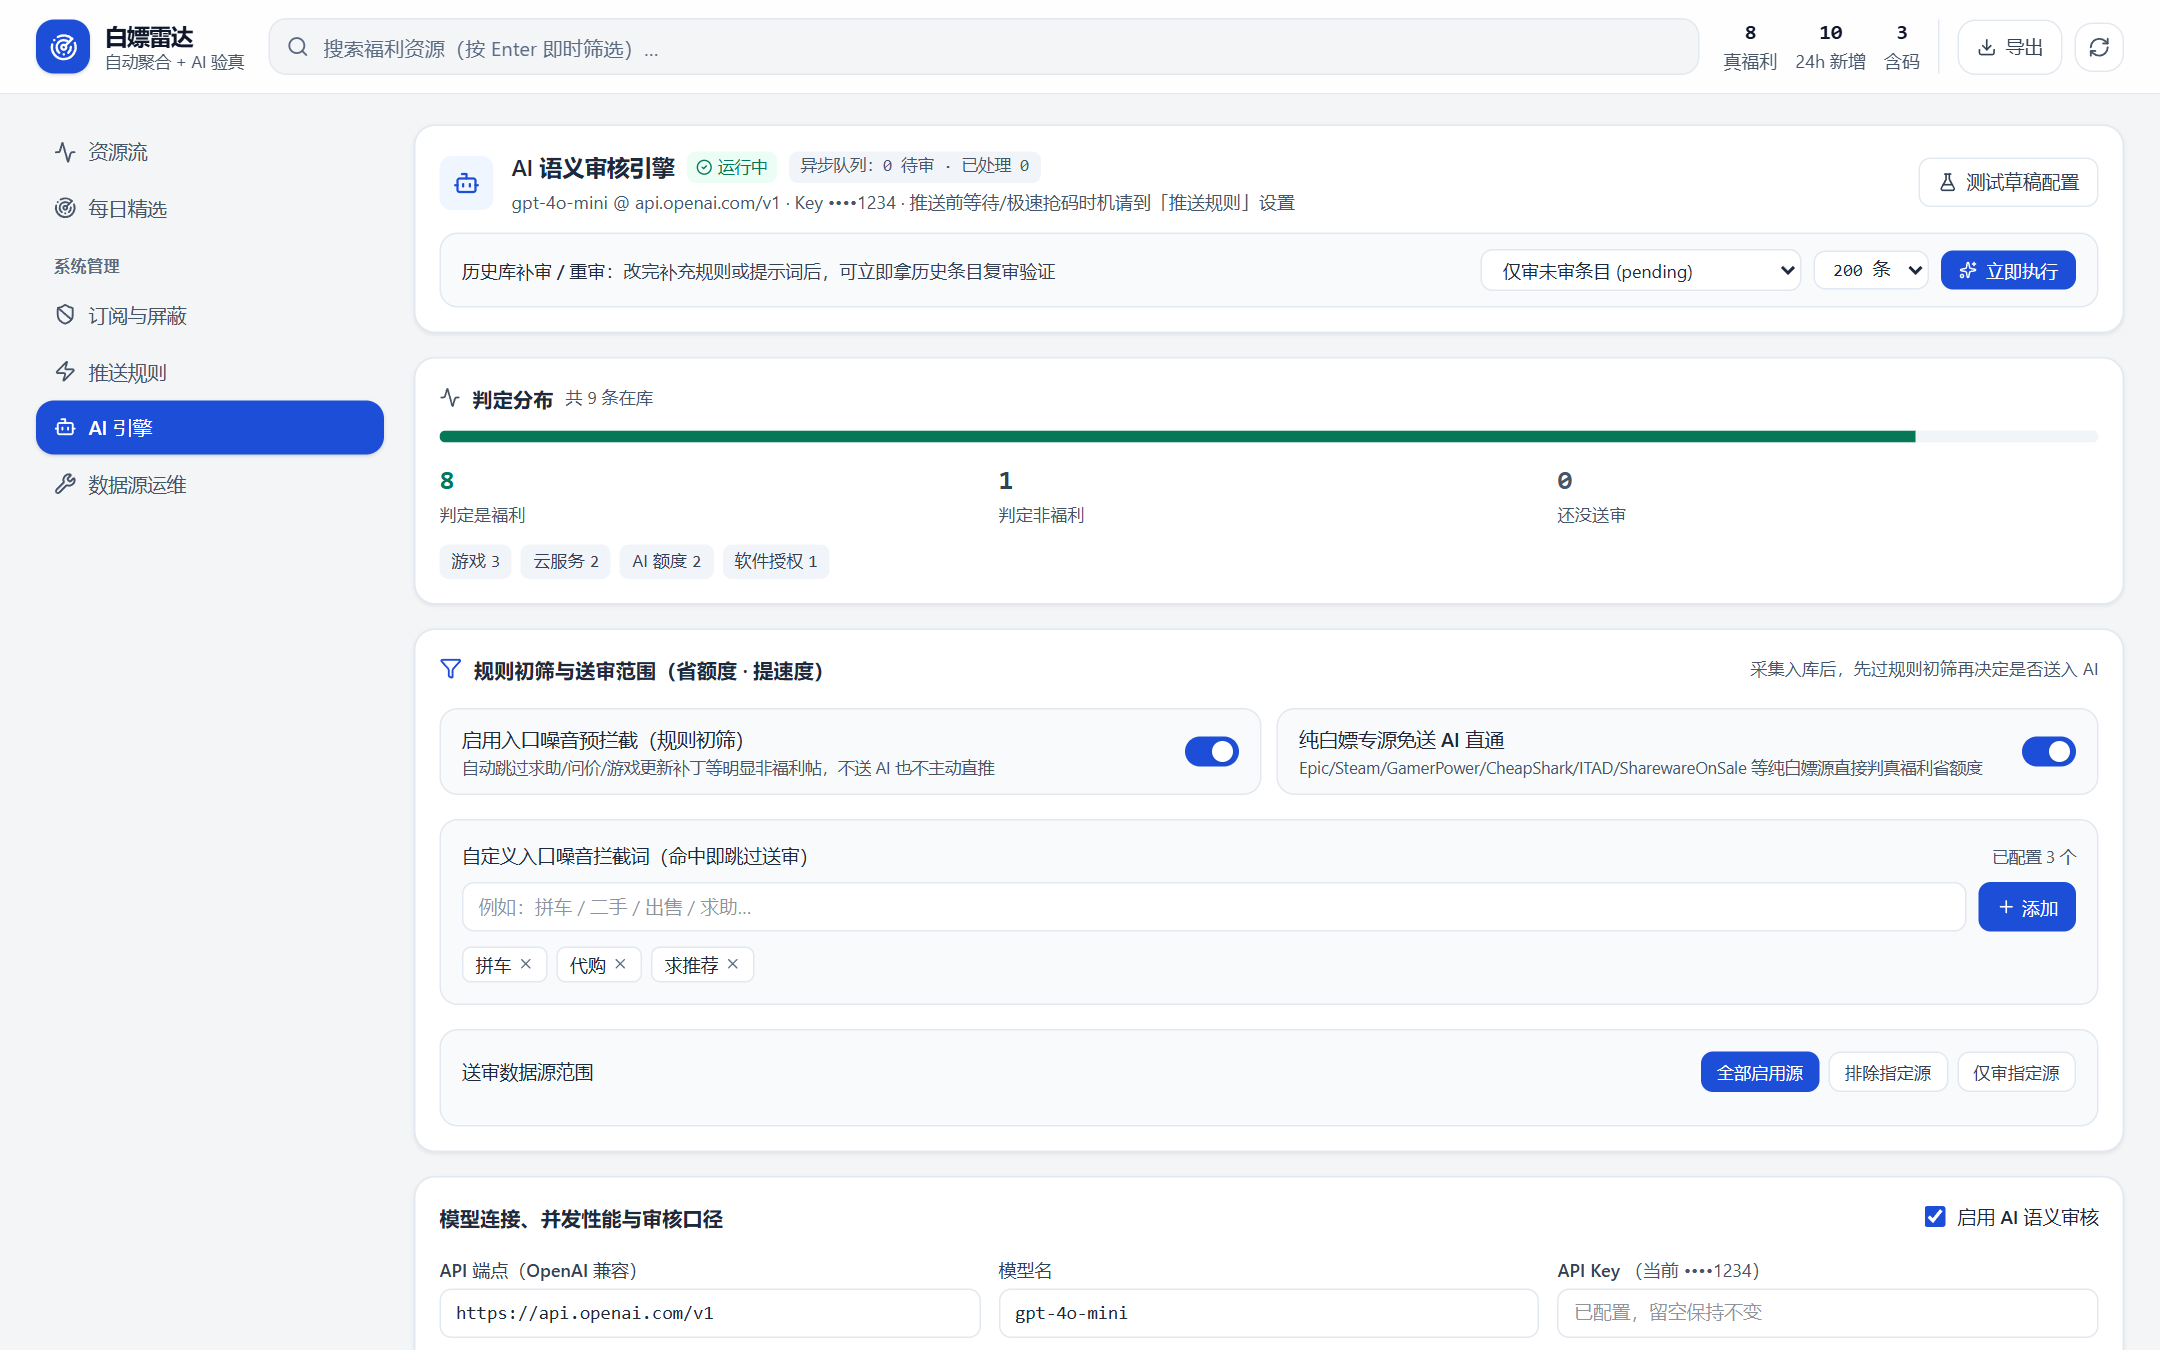
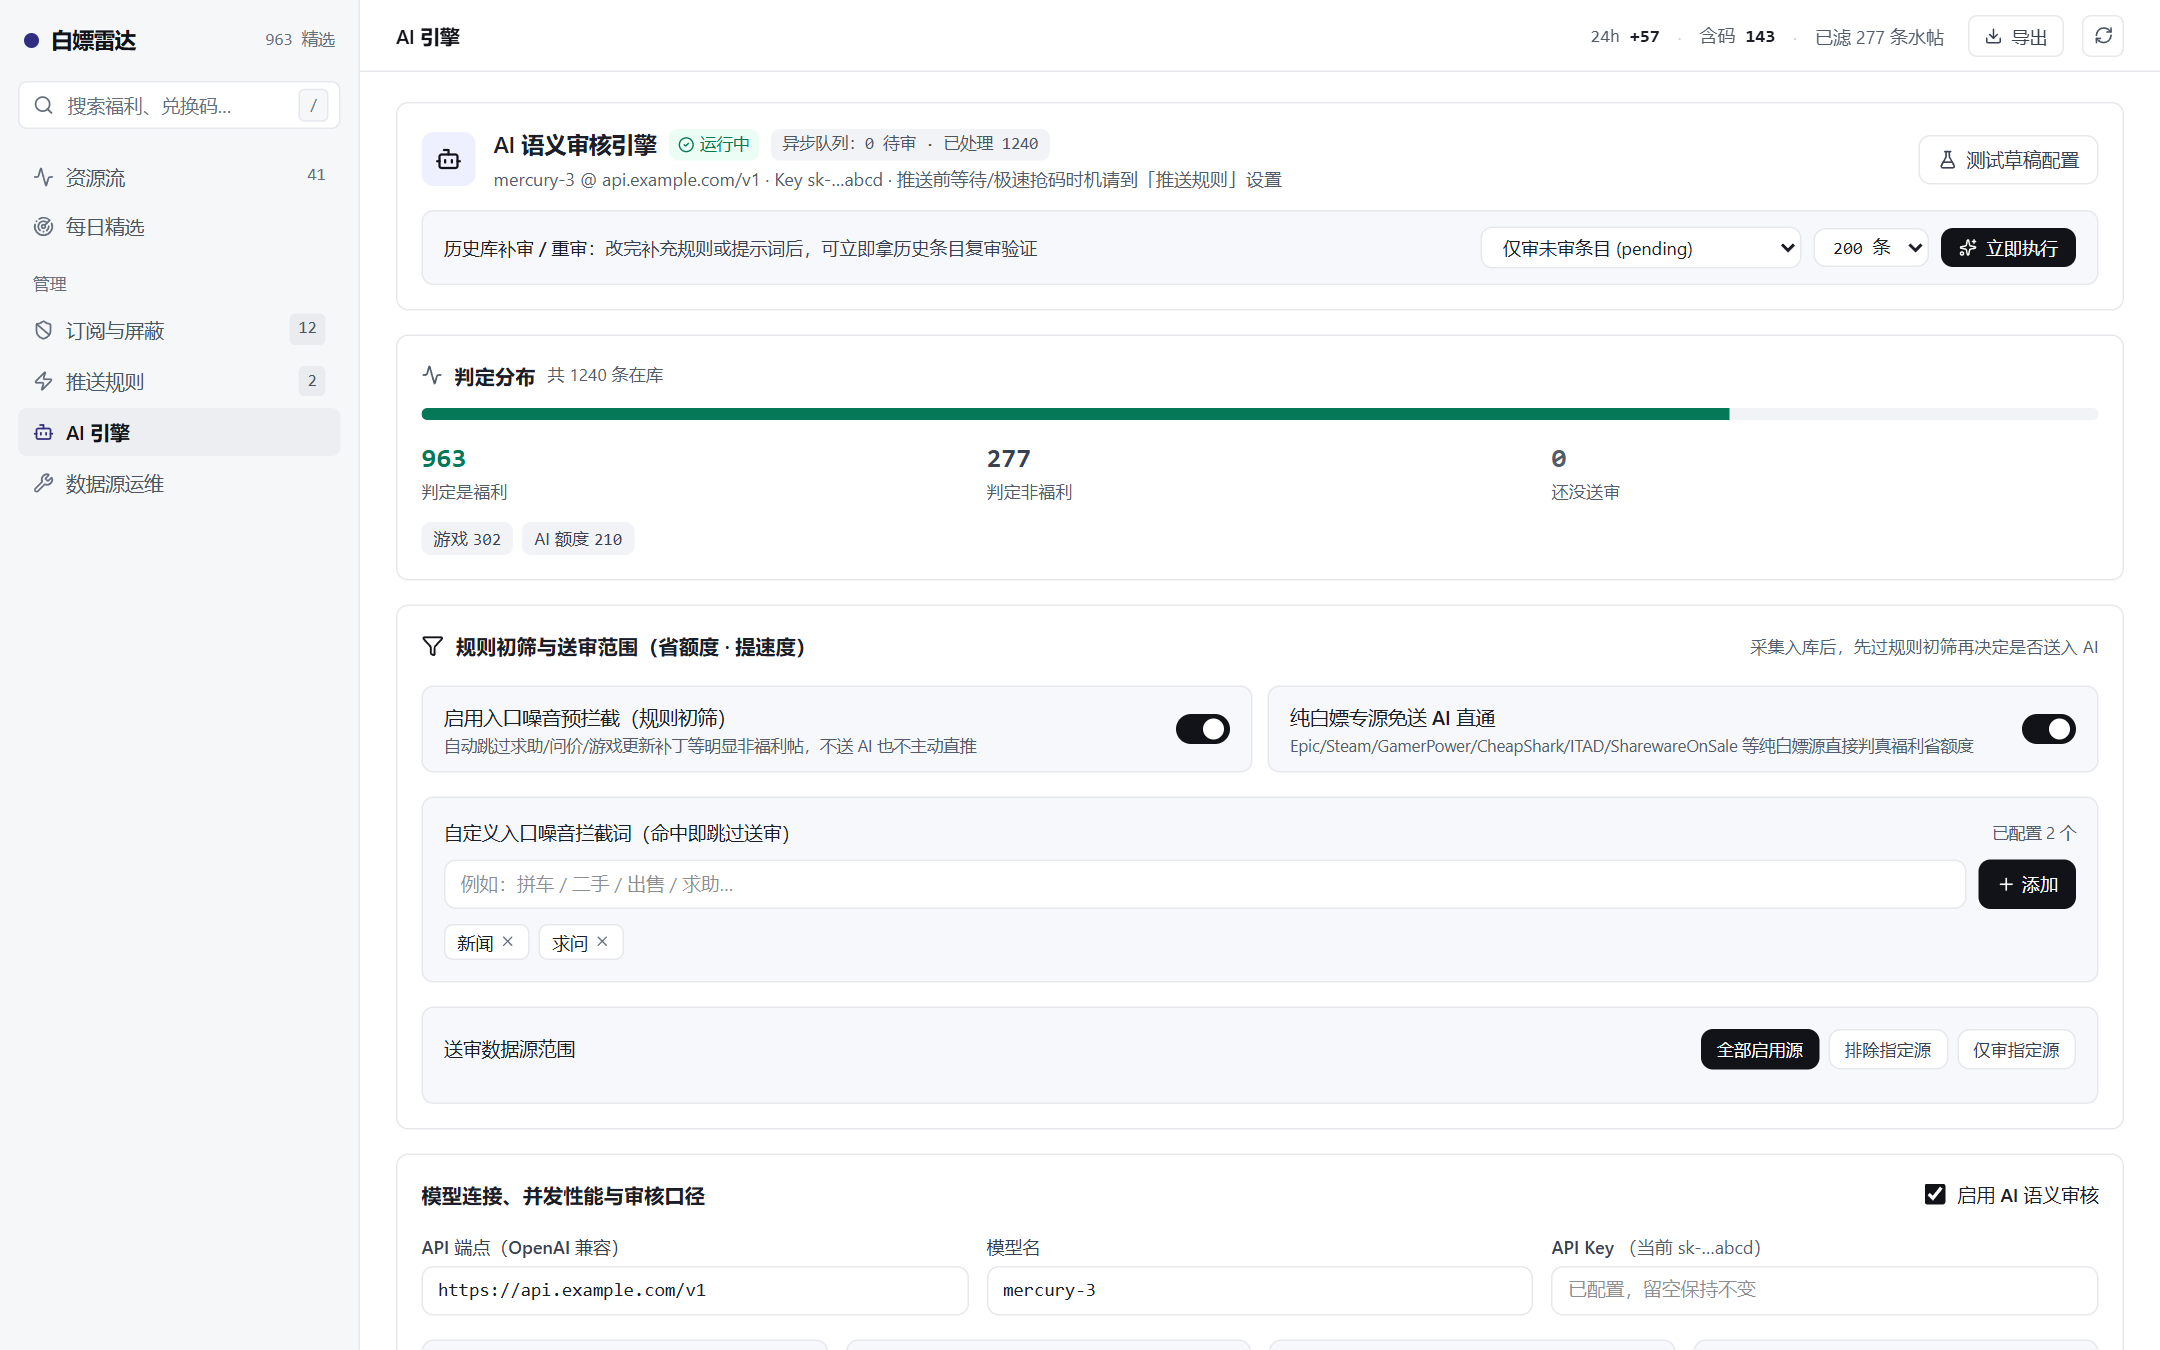
feat(ui): 默认排序改为最新发布 + 双语 README 接入新界面截图
- /api/items 与 /api/export 默认 sort 从综合评分切到最新发布（显式传 sort 仍可覆盖），
  前端排序下拉默认值与「重置筛选」同步；综合评分降为首选项之后
- 紧凑行标题补 overflow-wrap:anywhere，杜绝超长英文串在移动端撑破行
- README.md / README.en.md：资源流截图说明标注默认最新发布排序，
  新增移动端截图（docs/ui-mobile.png 780x1688），重拍桌面/推送/AI 三张 2160x1350 截图

验证：npm test 36/36 通过；vite build 通过；390px 实测 sort 默认 newest、
标题 309px、scrollWidth === innerWidth。

diff --git a/src/web/src/App.tsx b/src/web/src/App.tsx
@@ -196,7 +196,7 @@ export function App() {
   const [catOpen, setCatOpen] = useState(false);
   const catRef = useRef<HTMLDivElement | null>(null);
   const [lang, setLang] = useState<"all" | "zh" | "en">("all");
-  const [sort, setSort] = useState("score");
+  const [sort, setSort] = useState("newest");
   const [range, setRange] = useState("auto");
   const [priceCap, setPriceCap] = useState("auto");
   const [minScore, setMinScore] = useState("all");
@@ -345,7 +345,7 @@ export function App() {
       priceCap !== "auto",
       obtain !== "auto",
       range !== "auto",
-      sort !== "score",
+      sort !== "newest",
     ].filter(Boolean).length;
 
   const resetFilters = useCallback(() => {
@@ -359,7 +359,7 @@ export function App() {
     setPriceCap("auto");
     setObtain("auto");
     setRange("auto");
-    setSort("score");
+    setSort("newest");
     setPreset("verified");
   }, []);
   const stats = useApi<Stats>("/api/stats");
@@ -1056,8 +1056,8 @@ export function App() {
                     className="h-7 rounded-md border border-ink-200 bg-surface px-2 text-[12px] text-ink-700 outline-none focus:border-accent"
                     title="排序方式"
                   >
-                    <option value="score">综合评分</option>
                     <option value="newest">最新发布</option>
+                    <option value="score">综合评分</option>
                     <option value="oldest">最早发布</option>
                     <option value="expiring">截止时间最近</option>
                     <option value="price_asc">价格从低到高</option>

diff --git a/src/server/routes.ts b/src/server/routes.ts
@@ -358,7 +358,7 @@ export function registerApi(app: Hono) {
       );
     }
     const clause = where.length ? `WHERE ${where.join(" AND ")}` : "";
-    const order = SORTS[q.sort ?? "score"] ?? SORTS.score;
+    const order = SORTS[q.sort ?? "newest"] ?? SORTS.newest;
     const rows = all<ItemRow & { dup_count?: number }>(
       merge
         ? `SELECT items.*, (SELECT COUNT(*) FROM items d
@@ -414,7 +414,7 @@ export function registerApi(app: Hono) {
     const rules = loadActiveBlockRules();
     const { where, params, subKeywords } = buildItemsQuery(q, rules, false);
     const clause = where.length ? `WHERE ${where.join(" AND ")}` : "";
-    const order = SORTS[q.sort ?? "score"] ?? SORTS.score;
+    const order = SORTS[q.sort ?? "newest"] ?? SORTS.newest;
     const rows = all<ItemRow>(`SELECT * FROM items ${clause} ORDER BY ${order} LIMIT 300`, ...params);
 
     if (format === "json") {

diff --git a/src/web/src/components/ItemView.tsx b/src/web/src/components/ItemView.tsx
@@ -172,7 +172,7 @@ export function CompactRow({
         <div className="flex flex-wrap items-baseline gap-x-2 gap-y-0.5">
           <span
             className={
-              "text-[14px] leading-snug font-medium text-ink-950 transition-colors group-hover:text-accent " +
+              "[overflow-wrap:anywhere] text-[14px] leading-snug font-medium text-ink-950 transition-colors group-hover:text-accent " +
               (aiRejected ? "line-through decoration-ink-300 text-ink-500" : "")
             }
           >

diff --git a/README.md b/README.md
@@ -29,7 +29,7 @@
 
 ## 界面预览
 
-| 资源流工作台（默认 AI 验真过滤 + 兑换码一键复制 + 跨源合并） |
+| 资源流工作台（AI 验真过滤 + 兑换码一键复制 + 跨源合并 · 默认按最新发布排序） |
 | :---: |
 | ![资源流工作台](docs/ui-public.png) |
 
@@ -37,6 +37,10 @@
 | :---: | :---: |
 | ![推送规则](docs/ui-push-panel.png) | ![AI 引擎](docs/ui-ai-panel.png) |
 
+
+| 移动端（<640px 响应式：筛选折叠、全宽标题、触控目标与底部安全区适配） |
+| :---: |
+| ![移动端](docs/ui-mobile.png) |
 ## 核心特性
 
 - **63 个内置数据源（精简提纯后默认启用 33 个高信噪比源）**：覆盖 LINUX DO RSS、OpenRouter 新免费大模型、NodeSeek 福利情报（按板块与免费关键词提纯）、V2EX、其乐 Keylol、Epic Games、Steam、itch.io 100% 限免、GamerPower 游戏与礼包 Key、CheapShark、IsThereAnyDeal、FreeSteamKeys、SharewareOnSale 100% 限免、TickCoupon、Giveaway of the Day、果核剥壳、Reddit、Telegram 频道，并支持本机回环助手或油猴脚本零 Cookie 上传回传知乎、小红书、小黑盒。

diff --git a/README.en.md b/README.en.md
@@ -25,7 +25,7 @@ Instead of forwarding raw RSS noise, it runs every item through a configurable m
 
 ## Screenshots
 
-| Feed Workbench (AI-verified filtering, one-click code copy & cross-source clustering) |
+| Feed Workbench (AI-verified filtering, one-click code copy & cross-source clustering · newest-first by default) |
 | :---: |
 | ![Feed Workbench](docs/ui-public.png) |
 
@@ -33,6 +33,10 @@ Instead of forwarding raw RSS noise, it runs every item through a configurable m
 | :---: | :---: |
 | ![Push Rules](docs/ui-push-panel.png) | ![AI Engine](docs/ui-ai-panel.png) |
 
+
+| Mobile (responsive <640px: collapsible filters, full-width titles, touch-sized targets & safe-area aware) |
+| :---: |
+| ![Mobile](docs/ui-mobile.png) |
 ## Key Features
 
 - **63 Built-in Sources (33 High-Signal Curated Enabled by Default)**: Games, software giveaways, cloud/AI credits, Reddit (`r/FreeGameFindings`, `r/eFreebies`, `r/AppHookup`, etc.), Bluesky, Telegram channels, plus custom RSS/Atom feeds.
